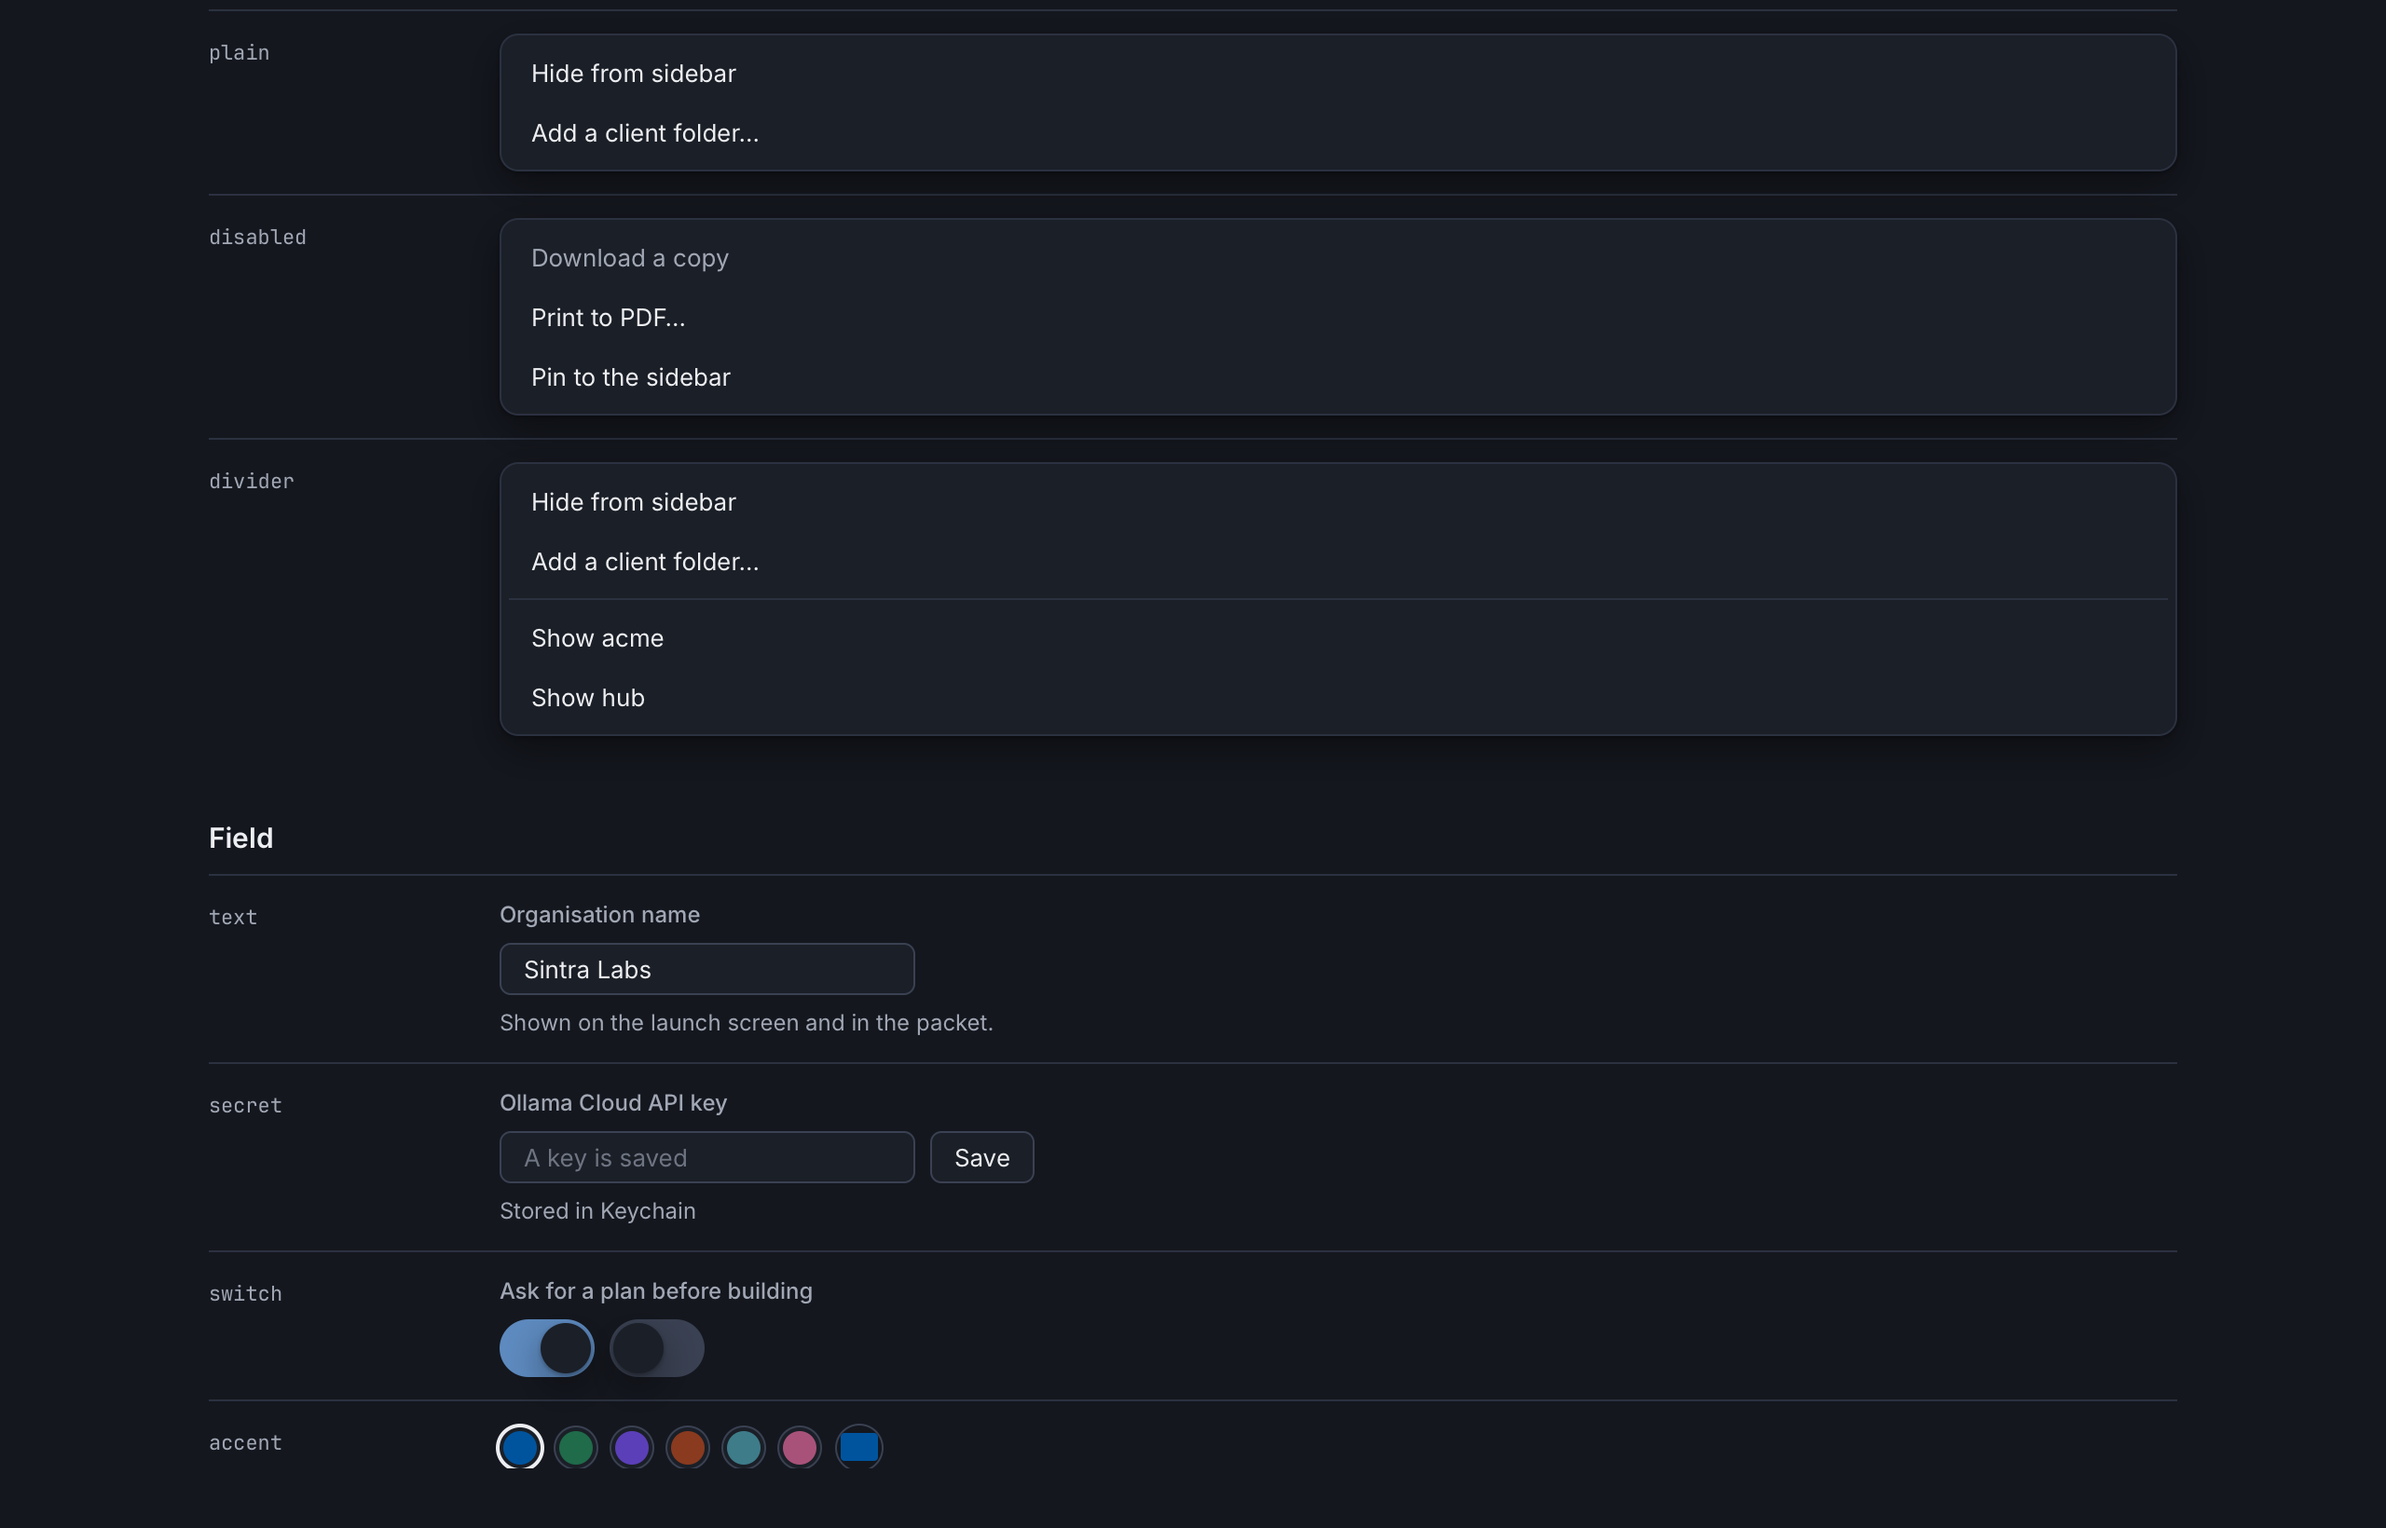
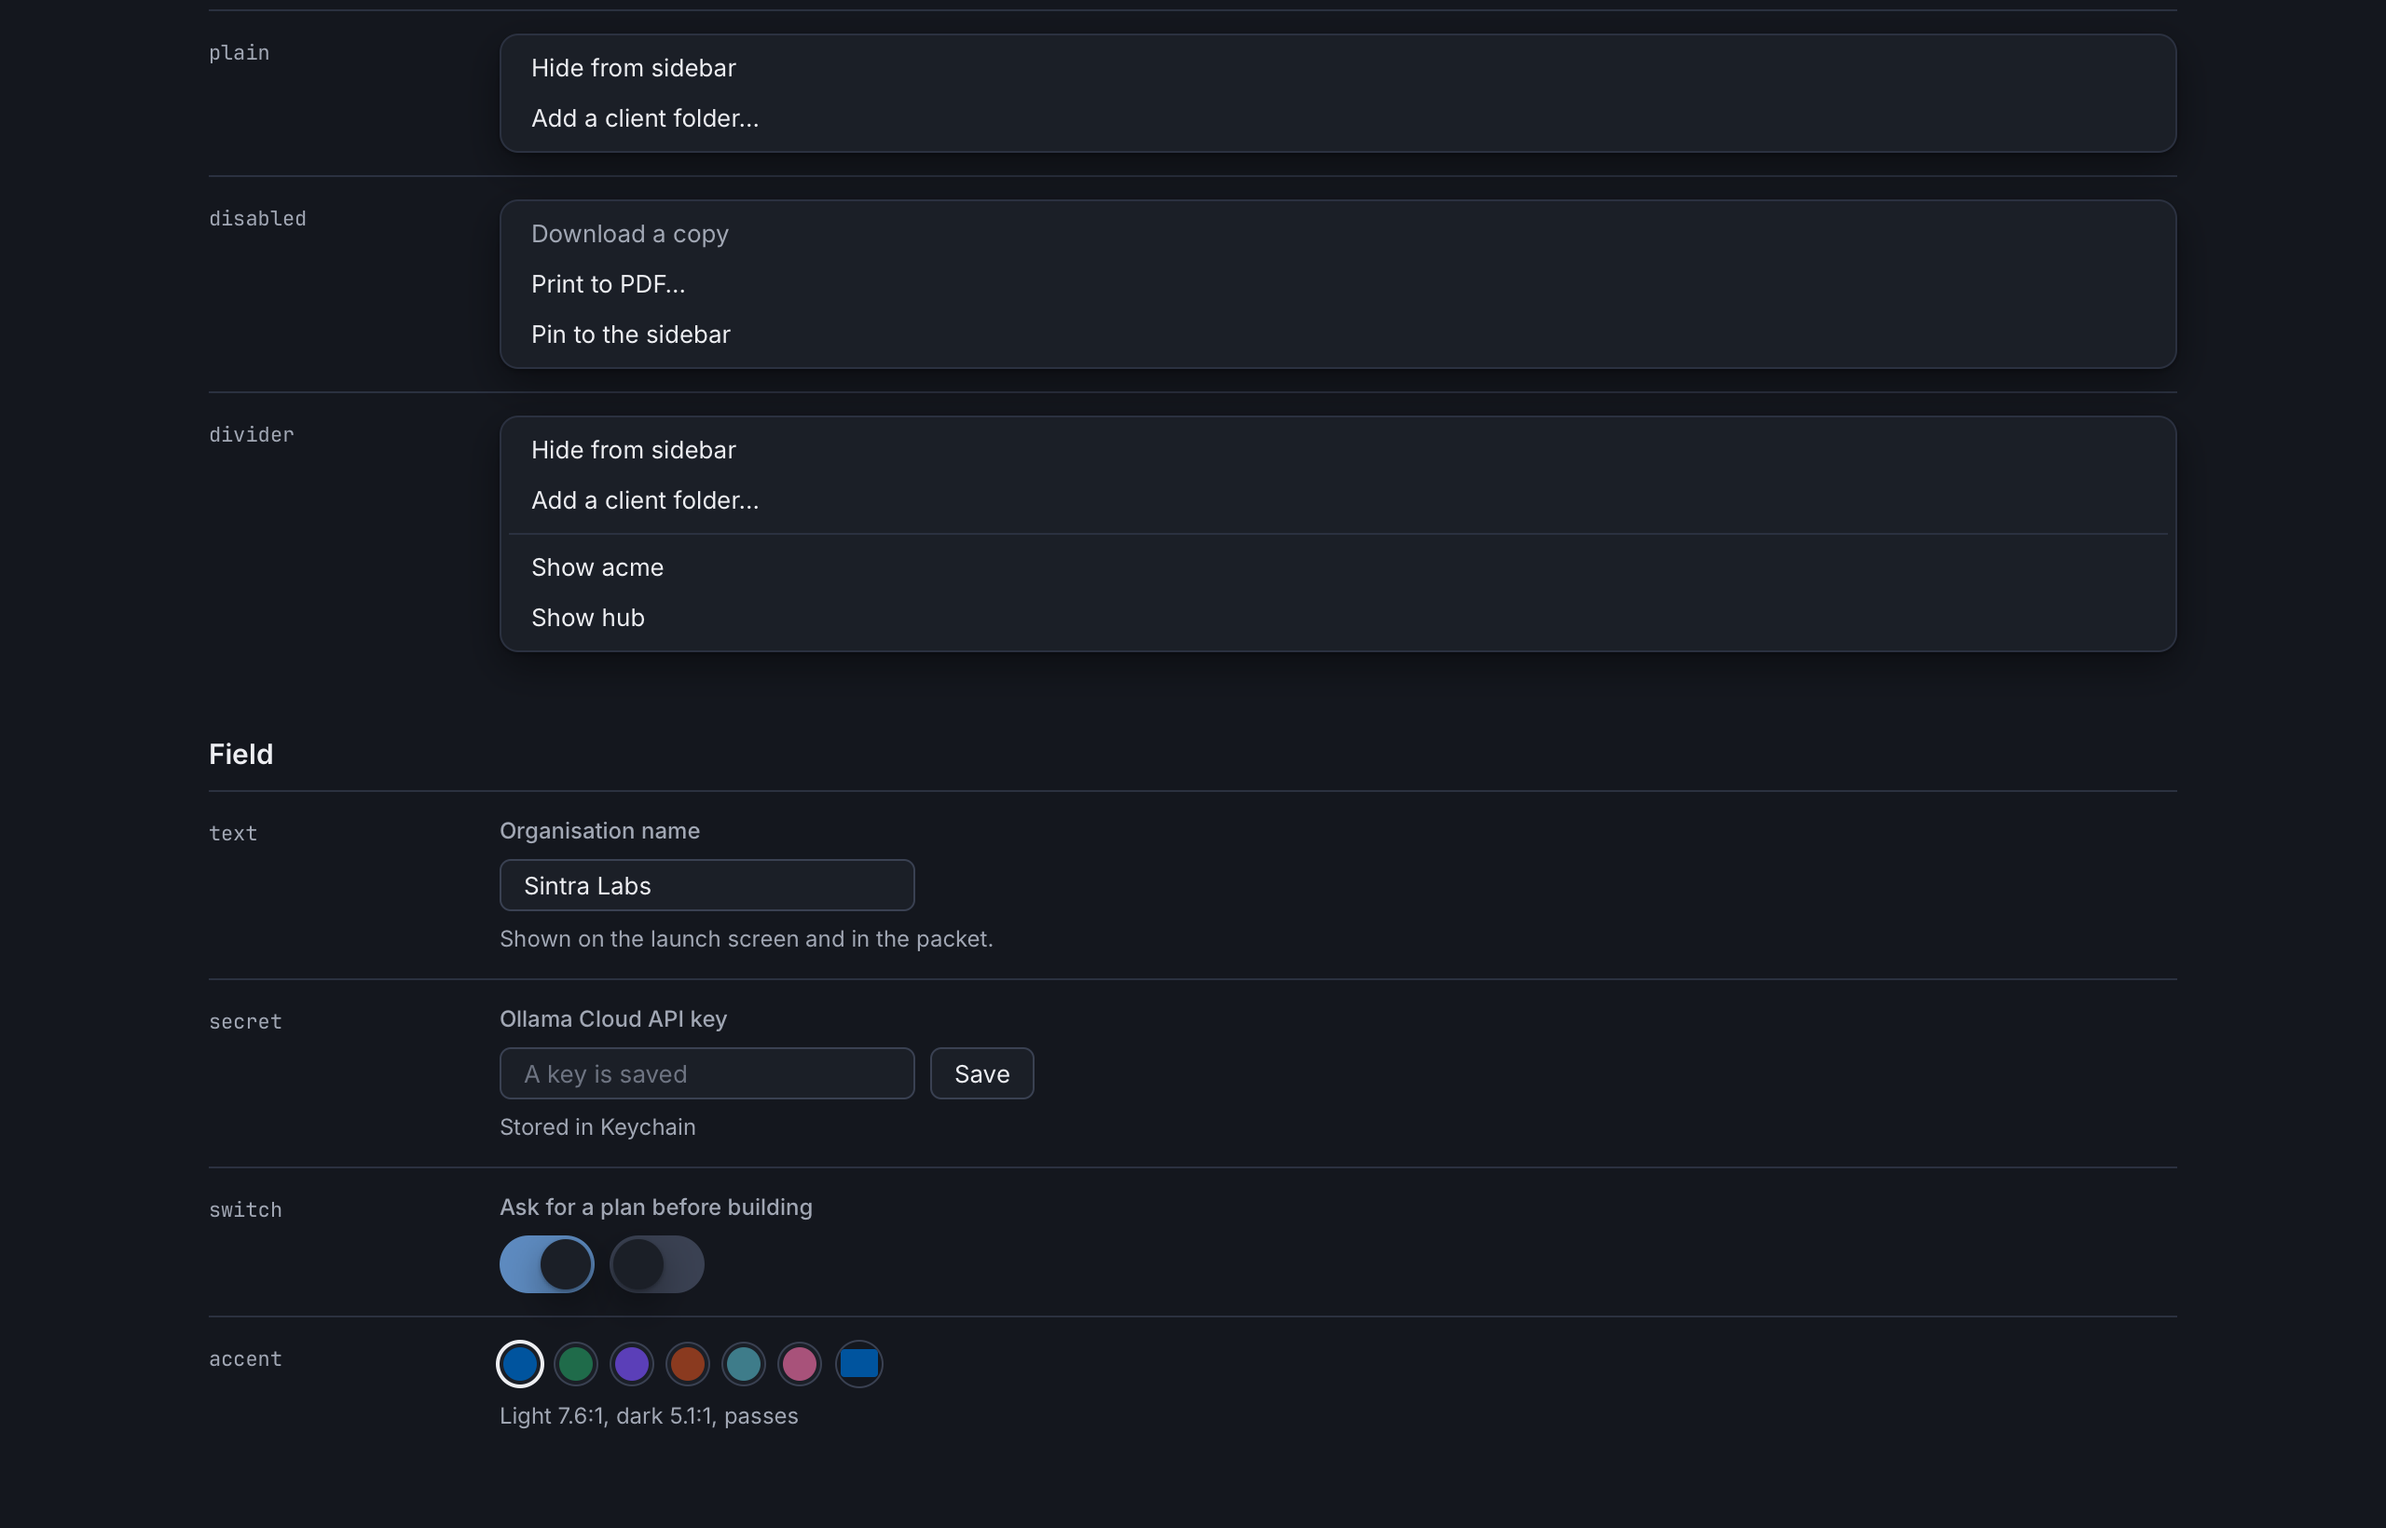
The menu's text is the sidebar rows' size again, and its first item has no focus ring
Moving the reader's ▾ menu into the library (7947733) put its items under two ui- rules in base.css that outrank
.ui-menu-item: `[class^="ui-"] button { font: inherit }` made them take the page's body size instead of --fs-md,
a step above the sidebar rows, and `[class^="ui-"] :focus-visible` drew the accent ring on the first item every
time a menu opened. The captain saw both on the client folders' right-click menu; the reader's ▾ had them too. The
type now sits on .ui-menu, where the items inherit it, and the menu's own items keep their ring off — the focused
item shows by its ground, as the ▾ always did.

folders.e2e's first case now also asserts the items' computed size equals the sidebar row's (13px) and that the
first item has no outline. folders, reader-panel, reader-export, reader-pins-a and stories green alone; the Menu
story's screenshots re-saved.

diff --git a/app/src/ui/Menu.css b/app/src/ui/Menu.css
@@ -1,7 +1,14 @@
 /* DESIGN.md §4 Menu (1.3): the sheet and its items, tokens only. Where it sits is the caller's — `.reader-menu` under
-   the ▾ (reader.css), `.sidebar-menu` at the pointer (shell.css). */
+   the ▾ (reader.css), `.sidebar-menu` at the pointer (shell.css).
+
+   The type is set on the sheet, not the items: base.css gives every button inside a ui- component `font: inherit`,
+   and that rule outranks `.ui-menu-item`, so a size set on the item never applied — the items took the page's body
+   size, a step above the sidebar rows (found 2026-09-23, the day the menu joined the library). */
 .ui-menu {
   min-width: calc(var(--sidebar-w) - var(--space-6));
+  font-family: var(--font-ui);
+  font-size: var(--fs-md);
+  line-height: 1.2;
   padding: var(--space-1);
   border: 1px solid var(--line);
   border-radius: var(--radius-md);
@@ -19,9 +26,6 @@
   padding: var(--space-1h) var(--space-3);
   background: transparent;
   color: var(--ink);
-  font-family: var(--font-ui);
-  font-size: var(--fs-md);
-  line-height: 1.2;
   text-align: left;
   white-space: nowrap;
   cursor: default;
@@ -31,6 +35,12 @@
 .ui-menu-item:hover:not([aria-disabled="true"]),
 .ui-menu-item:focus:not([aria-disabled="true"]) {
   background: var(--line);
+}
+
+/* The focused item is shown by its ground, as it was in the reader's ▾. base.css's focus ring for ui- components
+   would otherwise draw on the first item every time a menu opens, because the menu focuses it to take the keys. */
+.ui-menu .ui-menu-item:focus-visible {
+  outline: 0;
 }
 
 .ui-menu-item[aria-disabled="true"] {

diff --git a/e2e/specs/folders.e2e.ts b/e2e/specs/folders.e2e.ts
@@ -113,9 +113,17 @@ describe("folder views (tasks/folder-views/prd.md)", () => {
     expect(Object.keys(colours)).toEqual(shared.names);
   });
 
-  it("a right-click on a folder offers Hide and Add, keeps WebKit's menu away, and Esc closes it", async () => {
+  it("a right-click on a folder offers Hide and Add at the rows' size, keeps WebKit's menu away, and Esc closes it", async () => {
     const menu = await rightClick("acme");
     expect(menu).toEqual({ prevented: true, items: ["Hide from sidebar", "Add a client folder…"] });
+    // The items are the sidebar rows' size, and the first — focused so the menu takes the keys — shows by its ground,
+    // not a ring. Both slipped when the menu joined the library: base.css's ui- rules outranked the item's own.
+    const look = await browser.execute(() => {
+      const item = getComputedStyle(document.querySelector(".sidebar-menu .ui-menu-item")!);
+      const row = getComputedStyle(document.querySelector(".sidebar-folders .ui-nav")!);
+      return { item: item.fontSize, row: row.fontSize, ring: item.outlineStyle };
+    });
+    expect(look).toEqual({ item: look.row, row: "13px", ring: "none" });
     await browser.keys(["Escape"]);
     await browser.waitUntil(() => browser.execute(() => document.querySelector(".sidebar-menu") === null), { timeout: 10000, interval: 250, timeoutMsg: "Esc did not close the menu" });
     expect(await browser.execute(() => document.querySelector('section[data-page="home"]')?.hasAttribute("hidden"))).toBe(false);
